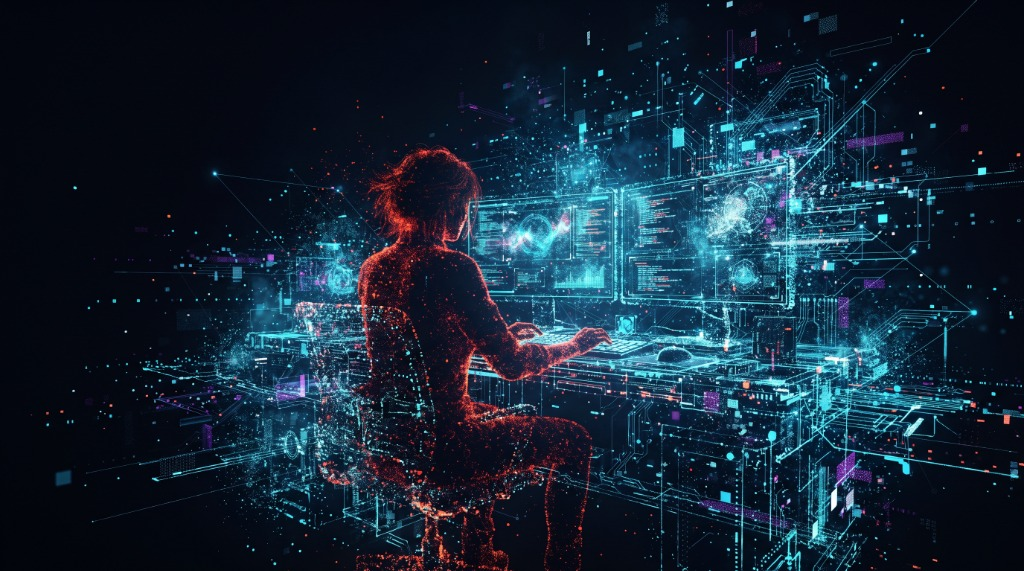
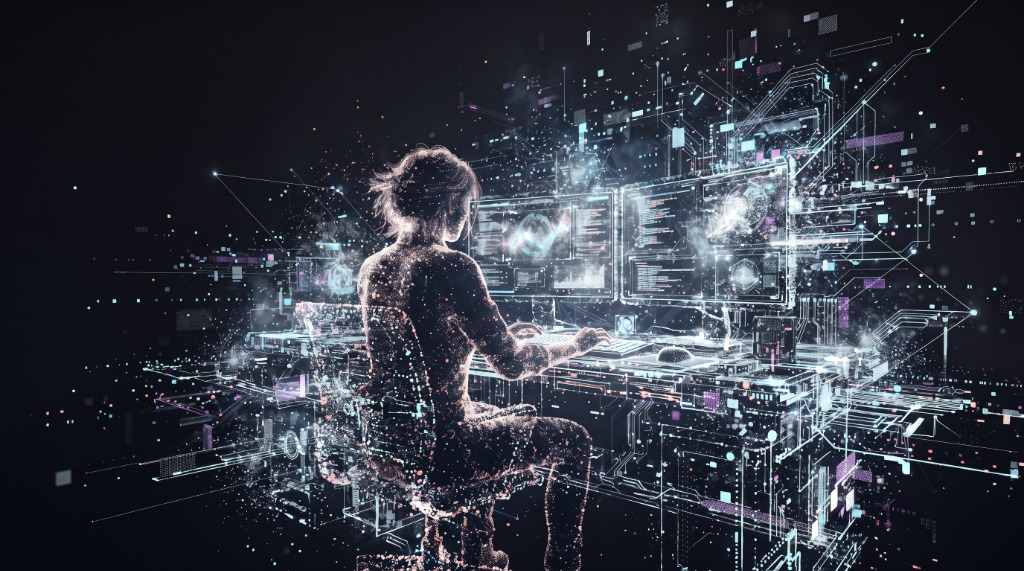
style(theme): overhaul profile design into a luxury silver, chrome, and platinum aesthetic

diff --git a/README.md b/README.md
@@ -1,5 +1,5 @@
 <p align="center">
-  <img src="https://raw.githubusercontent.com/ALEVOLDON/ALEVOLDON/main/header.jpg" alt="Creative Technologist & AI Engineer" style="border-radius: 12px; width: 100%; max-width: 900px; box-shadow: 0 8px 32px rgba(34, 211, 238, 0.2);" />
+  <img src="https://raw.githubusercontent.com/ALEVOLDON/ALEVOLDON/main/header.jpg" alt="Creative Technologist & AI Engineer" style="border-radius: 12px; width: 100%; max-width: 900px; box-shadow: 0 8px 32px rgba(226, 232, 240, 0.15);" />
 </p>
 
 <div align="center">
@@ -40,15 +40,15 @@
 <table>
   <tr>
     <td width="33.3%" valign="top">
-      <h4><img src="https://raw.githubusercontent.com/ALEVOLDON/ALEVOLDON/main/assets/icons/cpu.svg" width="16" height="16" valign="middle" alt="AI" /> <b>AI & Agentic Systems</b></h4>
+      <h4><img src="https://raw.githubusercontent.com/ALEVOLDON/ALEVOLDON/main/assets/icons/cpu.svg" width="16" height="16" valign="middle" alt="AI" /> <b>AI &amp; Agentic Systems</b></h4>
       <sub>Architecting LLM toolchains, MCP (Model Context Protocol) servers, autonomous multi-agent pipelines, and local Ollama inference integrations.</sub>
     </td>
     <td width="33.3%" valign="top">
-      <h4><img src="https://raw.githubusercontent.com/ALEVOLDON/ALEVOLDON/main/assets/icons/cube.svg" width="16" height="16" valign="middle" alt="3D" /> <b>Interactive 3D & WebGL</b></h4>
+      <h4><img src="https://raw.githubusercontent.com/ALEVOLDON/ALEVOLDON/main/assets/icons/cube.svg" width="16" height="16" valign="middle" alt="3D" /> <b>Interactive 3D &amp; WebGL</b></h4>
       <sub>Developing real-time Three.js canvas environments, GLSL shaders, Blender Draco geometry pipelines, and procedural particle physics.</sub>
     </td>
     <td width="33.3%" valign="top">
-      <h4><img src="https://raw.githubusercontent.com/ALEVOLDON/ALEVOLDON/main/assets/icons/synth.svg" width="16" height="16" valign="middle" alt="Audio" /> <b>Web Audio & Generative DSP</b></h4>
+      <h4><img src="https://raw.githubusercontent.com/ALEVOLDON/ALEVOLDON/main/assets/icons/synth.svg" width="16" height="16" valign="middle" alt="Audio" /> <b>Web Audio &amp; Generative DSP</b></h4>
       <sub>Crafting browser synthesizers, real-time audio-reactive visualizers, modular VCV/Ableton routing, and generative acoustic landscapes.</sub>
     </td>
   </tr>
@@ -66,7 +66,7 @@
       <h4>
         <img src="https://raw.githubusercontent.com/ALEVOLDON/ALEVOLDON/main/assets/icons/radio.svg" width="18" height="18" valign="middle" alt="JMF Radio" />
         <a href="https://github.com/ALEVOLDON/jmf-radio"><b>JMF RADIO</b></a>
-        &nbsp;<code>🟢 LIVE 3D LAB</code>
+        &nbsp;<code>⚪ LIVE 3D LAB</code>
       </h4>
       <p>Interactive 3D WebGL nightclub & 24/7 DJ streaming station with real-time audio-reactive shader visualizers.</p>
       <p>
@@ -80,7 +80,7 @@
       <h4>
         <img src="https://raw.githubusercontent.com/ALEVOLDON/ALEVOLDON/main/assets/icons/ai_roadmap.svg" width="18" height="18" valign="middle" alt="AI Roadmap" />
         <a href="https://github.com/ALEVOLDON/full_roadmap_ai_enthusiast_2026"><b>AI Developer Roadmap 2026</b></a>
-        &nbsp;<code>⚡ AGENTIC GUIDE</code>
+        &nbsp;<code>⚪ AGENTIC GUIDE</code>
       </h4>
       <p>Interactive, privacy-first developer portal covering autonomous agents, MCP servers, and modern AI workflows.</p>
       <p>
@@ -96,7 +96,7 @@
       <h4>
         <img src="https://raw.githubusercontent.com/ALEVOLDON/ALEVOLDON/main/assets/icons/synth.svg" width="18" height="18" valign="middle" alt="Web Hero Modular" />
         <a href="https://github.com/ALEVOLDON/web-hero-modular"><b>Web Hero Modular</b></a>
-        &nbsp;<code>🎛 3D AUDIO LAB</code>
+        &nbsp;<code>⚪ 3D AUDIO LAB</code>
       </h4>
       <p>Real-time 3D Eurorack synthesizer hero & interactive audio laboratory with draggable cables and parametric knobs.</p>
       <p>
@@ -110,7 +110,7 @@
       <h4>
         <img src="https://raw.githubusercontent.com/ALEVOLDON/ALEVOLDON/main/assets/icons/bot.svg" width="18" height="18" valign="middle" alt="Dump Assistant Bot" />
         <a href="https://github.com/ALEVOLDON/Dump-Assistant-Bot"><b>Dump Assistant Bot</b></a>
-        &nbsp;<code>🤖 TELEGRAM AI</code>
+        &nbsp;<code>⚪ TELEGRAM AI</code>
       </h4>
       <p>AI assistant bot for Telegram channels: reads posts, analyzes URLs, and engages users with local Ollama LLM fallback.</p>
       <p>
@@ -126,7 +126,7 @@
       <h4>
         <img src="https://raw.githubusercontent.com/ALEVOLDON/ALEVOLDON/main/assets/icons/orbit.svg" width="18" height="18" valign="middle" alt="Modular Genesis" />
         <a href="https://github.com/ALEVOLDON/Modular-Genesis"><b>Modular Genesis</b></a>
-        &nbsp;<code>🌌 AUDIO LAB</code>
+        &nbsp;<code>⚪ AUDIO LAB</code>
       </h4>
       <p>Open knowledge hub and generative audio laboratory exploring modular synthesis, VCV Rack + Ableton workflows.</p>
       <p>
@@ -140,7 +140,7 @@
       <h4>
         <img src="https://raw.githubusercontent.com/ALEVOLDON/ALEVOLDON/main/assets/icons/cube.svg" width="18" height="18" valign="middle" alt="Point Cloud Surface" />
         <a href="https://github.com/ALEVOLDON/point-cloud-surface"><b>Point Cloud Surface</b></a>
-        &nbsp;<code>🔮 GENERATIVE 3D</code>
+        &nbsp;<code>⚪ GENERATIVE 3D</code>
       </h4>
       <p>Procedural glowing 3D point-cloud and volumetric particle surfaces created with Blender Geometry Nodes and Python.</p>
       <p>
@@ -168,20 +168,20 @@
 
 <table width="100%">
   <tr align="center">
-    <td width="16.6%"><a href="https://react.dev" target="_blank" rel="noreferrer"><img src="https://img.shields.io/badge/React-20232A?style=for-the-badge&logo=react&logoColor=61DAFB" height="28" alt="React" /></a></td>
-    <td width="16.6%"><a href="https://nextjs.org" target="_blank" rel="noreferrer"><img src="https://img.shields.io/badge/Next.js-000000?style=for-the-badge&logo=nextdotjs&logoColor=white" height="28" alt="Next.js" /></a></td>
-    <td width="16.6%"><a href="https://tailwindcss.com" target="_blank" rel="noreferrer"><img src="https://img.shields.io/badge/Tailwind_CSS-38B2AC?style=for-the-badge&logo=tailwind-css&logoColor=white" height="28" alt="Tailwind CSS" /></a></td>
-    <td width="16.6%"><a href="https://www.typescriptlang.org" target="_blank" rel="noreferrer"><img src="https://img.shields.io/badge/TypeScript-007ACC?style=for-the-badge&logo=typescript&logoColor=white" height="28" alt="TypeScript" /></a></td>
-    <td width="16.6%"><a href="https://developer.mozilla.org/en-US/docs/Web/JavaScript" target="_blank" rel="noreferrer"><img src="https://img.shields.io/badge/JavaScript-F7DF1E?style=for-the-badge&logo=javascript&logoColor=black" height="28" alt="JavaScript" /></a></td>
-    <td width="16.6%"><a href="https://astro.build" target="_blank" rel="noreferrer"><img src="https://img.shields.io/badge/Astro-BC52EE?style=for-the-badge&logo=astro&logoColor=white" height="28" alt="Astro" /></a></td>
+    <td width="16.6%"><a href="https://react.dev" target="_blank" rel="noreferrer"><img src="https://img.shields.io/badge/React-0b0f19?style=for-the-badge&logo=react&logoColor=e2e8f0" height="28" alt="React" /></a></td>
+    <td width="16.6%"><a href="https://nextjs.org" target="_blank" rel="noreferrer"><img src="https://img.shields.io/badge/Next.js-000000?style=for-the-badge&logo=nextdotjs&logoColor=e2e8f0" height="28" alt="Next.js" /></a></td>
+    <td width="16.6%"><a href="https://tailwindcss.com" target="_blank" rel="noreferrer"><img src="https://img.shields.io/badge/Tailwind_CSS-0b0f19?style=for-the-badge&logo=tailwind-css&logoColor=e2e8f0" height="28" alt="Tailwind CSS" /></a></td>
+    <td width="16.6%"><a href="https://www.typescriptlang.org" target="_blank" rel="noreferrer"><img src="https://img.shields.io/badge/TypeScript-0b0f19?style=for-the-badge&logo=typescript&logoColor=e2e8f0" height="28" alt="TypeScript" /></a></td>
+    <td width="16.6%"><a href="https://developer.mozilla.org/en-US/docs/Web/JavaScript" target="_blank" rel="noreferrer"><img src="https://img.shields.io/badge/JavaScript-0b0f19?style=for-the-badge&logo=javascript&logoColor=e2e8f0" height="28" alt="JavaScript" /></a></td>
+    <td width="16.6%"><a href="https://astro.build" target="_blank" rel="noreferrer"><img src="https://img.shields.io/badge/Astro-0b0f19?style=for-the-badge&logo=astro&logoColor=e2e8f0" height="28" alt="Astro" /></a></td>
   </tr>
   <tr align="center">
-    <td width="16.6%"><a href="https://www.python.org" target="_blank" rel="noreferrer"><img src="https://img.shields.io/badge/Python-3776AB?style=for-the-badge&logo=python&logoColor=white" height="28" alt="Python" /></a></td>
-    <td width="16.6%"><a href="https://fastapi.tiangolo.com" target="_blank" rel="noreferrer"><img src="https://img.shields.io/badge/FastAPI-009688?style=for-the-badge&logo=fastapi&logoColor=white" height="28" alt="FastAPI" /></a></td>
-    <td width="16.6%"><a href="https://nodejs.org" target="_blank" rel="noreferrer"><img src="https://img.shields.io/badge/Node.js-339933?style=for-the-badge&logo=nodedotjs&logoColor=white" height="28" alt="Node.js" /></a></td>
-    <td width="16.6%"><a href="https://threejs.org" target="_blank" rel="noreferrer"><img src="https://img.shields.io/badge/Three.js-000000?style=for-the-badge&logo=three.js&logoColor=white" height="28" alt="Three.js" /></a></td>
-    <td width="16.6%"><a href="https://www.blender.org" target="_blank" rel="noreferrer"><img src="https://img.shields.io/badge/Blender-E87D0D?style=for-the-badge&logo=blender&logoColor=white" height="28" alt="Blender" /></a></td>
-    <td width="16.6%"><a href="https://greensock.com" target="_blank" rel="noreferrer"><img src="https://img.shields.io/badge/GSAP-88CE02?style=for-the-badge&logo=greensock&logoColor=white" height="28" alt="GSAP" /></a></td>
+    <td width="16.6%"><a href="https://www.python.org" target="_blank" rel="noreferrer"><img src="https://img.shields.io/badge/Python-0b0f19?style=for-the-badge&logo=python&logoColor=e2e8f0" height="28" alt="Python" /></a></td>
+    <td width="16.6%"><a href="https://fastapi.tiangolo.com" target="_blank" rel="noreferrer"><img src="https://img.shields.io/badge/FastAPI-0b0f19?style=for-the-badge&logo=fastapi&logoColor=e2e8f0" height="28" alt="FastAPI" /></a></td>
+    <td width="16.6%"><a href="https://nodejs.org" target="_blank" rel="noreferrer"><img src="https://img.shields.io/badge/Node.js-0b0f19?style=for-the-badge&logo=nodedotjs&logoColor=e2e8f0" height="28" alt="Node.js" /></a></td>
+    <td width="16.6%"><a href="https://threejs.org" target="_blank" rel="noreferrer"><img src="https://img.shields.io/badge/Three.js-000000?style=for-the-badge&logo=three.js&logoColor=e2e8f0" height="28" alt="Three.js" /></a></td>
+    <td width="16.6%"><a href="https://www.blender.org" target="_blank" rel="noreferrer"><img src="https://img.shields.io/badge/Blender-0b0f19?style=for-the-badge&logo=blender&logoColor=e2e8f0" height="28" alt="Blender" /></a></td>
+    <td width="16.6%"><a href="https://greensock.com" target="_blank" rel="noreferrer"><img src="https://img.shields.io/badge/GSAP-0b0f19?style=for-the-badge&logo=greensock&logoColor=e2e8f0" height="28" alt="GSAP" /></a></td>
   </tr>
 </table>
 
@@ -192,8 +192,8 @@
 ### <img src="https://raw.githubusercontent.com/ALEVOLDON/ALEVOLDON/main/assets/icons/stats.svg" width="20" height="20" valign="middle" alt="Stats" /> Activity & Diagnostics
 
 <p align="center">
-  <img src="https://github-stats-extended.vercel.app/api?username=ALEVOLDON&show_icons=true&theme=tokyonight&bg_color=030106&title_color=22d3ee&icon_color=a855f7&text_color=9ca3af&border_color=22d3ee33" height="185" alt="GitHub Stats" />
-  <img src="https://github-stats-extended.vercel.app/api/top-langs/?username=ALEVOLDON&layout=compact&theme=tokyonight&bg_color=030106&title_color=22d3ee&icon_color=a855f7&text_color=9ca3af&border_color=22d3ee33" height="185" alt="Top Languages" />
+  <img src="https://github-stats-extended.vercel.app/api?username=ALEVOLDON&show_icons=true&bg_color=030712&title_color=f8fafc&icon_color=cbd5e1&text_color=94a3b8&border_color=cbd5e133" height="185" alt="GitHub Stats" />
+  <img src="https://github-stats-extended.vercel.app/api/top-langs/?username=ALEVOLDON&layout=compact&bg_color=030712&title_color=f8fafc&icon_color=cbd5e1&text_color=94a3b8&border_color=cbd5e133" height="185" alt="Top Languages" />
 </p>
 
 <p align="center">
